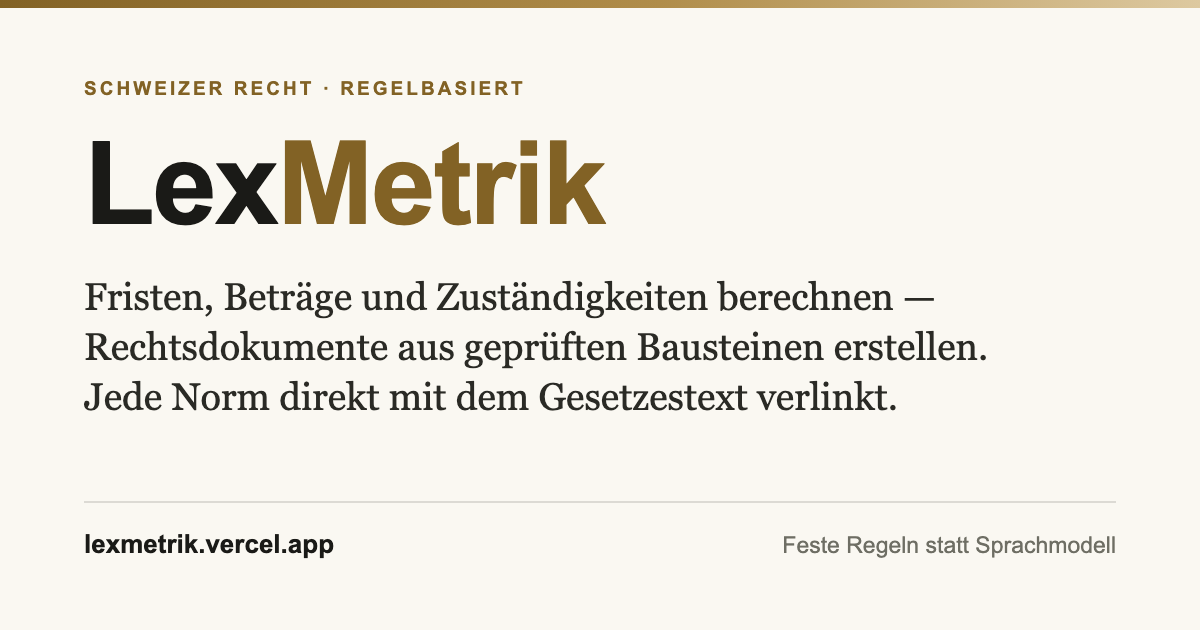
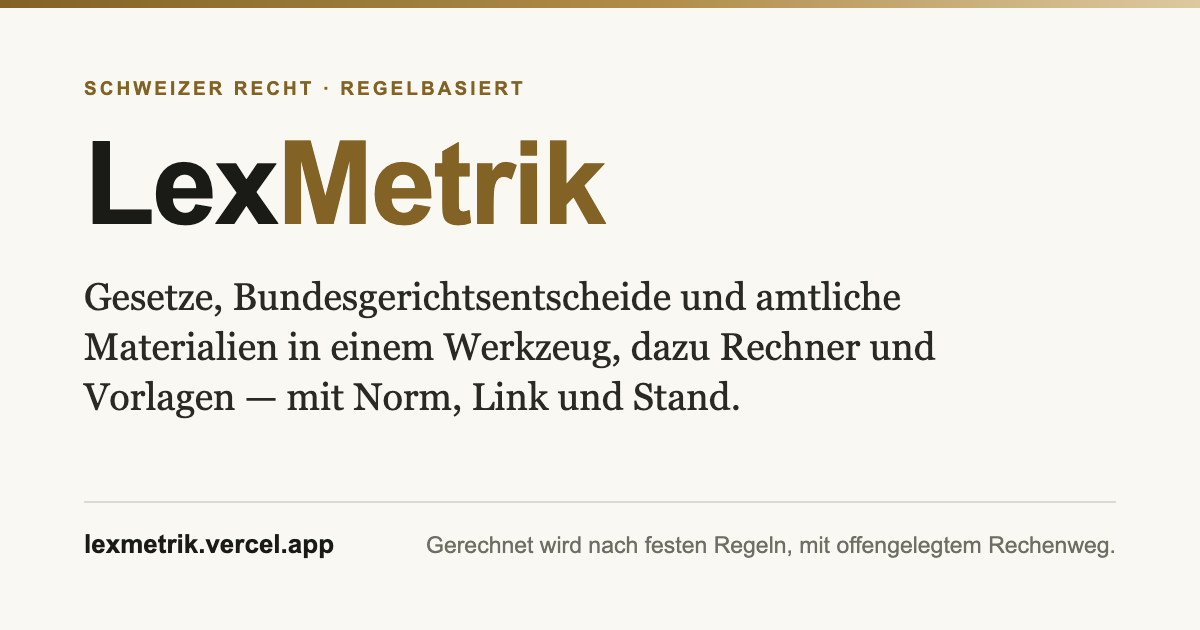
feat(startseite): S1 Messaging-SSoT — I2-Wortlaut in seo.ts, Projektionen, Tor check:seo-index
Bausequenz-Schritt 1 von FAHRPLAN-STARTSEITE-V3.md §10 (W2·5c): seo.ts wird die eine
Wortlaut-Quelle (HERO_TITEL/HERO_SUBLINE/VERTRAUENS_SATZ/STATUS_SATZ/SITE_KURZFORM);
index.html/KatalogHinweis/Methodik/og-bild.ts sind Projektionen; public/og.png regeneriert.
Council-Auflagen 1/2: kein Absolutum, kein «geprüfte Bausteine», «Ohne KI» nur gescopt.
seo.test.ts:81 bewusst auf den neuen Kern «nach festen Regeln» umgestellt (§6.3, fachlich).
Tore: tsc/lint/test 3080/build 57 Routen/golden 201 byte-gleich/check:seo-index/check:plan grün.

Roadmap: W2·5c
Gegenpruefung: n/a — reine Darstellungs-/Messaging-Schicht, kein Risiko-Pfad

Changed region(s): [[0.0617, 0.4524, 0.8325, 0.6635], [0.3392, 0.8444, 0.925, 0.9048]]

diff --git a/scripts/check-seo-index.ts b/scripts/check-seo-index.ts
@@ -1,0 +1,60 @@
+// ─── Tor check:seo-index — Parität index.html ↔ seo.ts (FAHRPLAN §6) ─────────
+//
+// Beweist, dass die statischen Meta-Tags in index.html WÖRTLICH die aus
+// src/lib/seo.ts abgeleiteten Startseiten-Werte spiegeln. seo.ts ist die SSoT
+// (§6); index.html bleibt eine statische Datei, deren Titel/Description/OG das
+// Prerender für «/» ohnehin aus metaFuerPfad('/') überschreibt — dieses Tor
+// hält die Ausgangsdatei mit der Quelle synchron, damit First Paint und
+// Social-Preview VOR dem Client-Takeover schon korrekt sind.
+//
+// KEIN Duplikat-String im Checker: die Erwartungswerte kommen aus den echten
+// seo.ts-Exporten; verglichen wird gegen die esc()-Form (wie das Prerender
+// injiziert, scripts/prerender.ts).
+import { readFileSync } from 'node:fs';
+import { dirname, join, resolve } from 'node:path';
+import { fileURLToPath } from 'node:url';
+import { SITE_TITEL, SITE_DESCRIPTION, SITE_OG_DESCRIPTION } from '../src/lib/seo';
+import { esc } from '../src/lib/seo-detail';
+
+const ROOT = resolve(dirname(fileURLToPath(import.meta.url)), '..');
+const html = readFileSync(join(ROOT, 'index.html'), 'utf8');
+
+interface Pruefung {
+  feld: string;
+  re: RegExp; // Gruppe 1 = der Tag-Inhalt
+  erwartet: string;
+}
+
+// Muster spiegeln die Prerender-Injektion (scripts/prerender.ts rendereTemplate).
+const PRUEFUNGEN: Pruefung[] = [
+  { feld: '<title>', re: /<title>([^<]*)<\/title>/, erwartet: SITE_TITEL },
+  { feld: 'meta description', re: /<meta name="description" content="([^"]*)" \/>/, erwartet: SITE_DESCRIPTION },
+  { feld: 'og:title', re: /<meta property="og:title" content="([^"]*)" \/>/, erwartet: SITE_TITEL },
+  { feld: 'og:description', re: /<meta property="og:description" content="([^"]*)" \/>/, erwartet: SITE_OG_DESCRIPTION },
+  { feld: 'og:image:alt', re: /<meta property="og:image:alt" content="([^"]*)" \/>/, erwartet: SITE_TITEL },
+  { feld: 'twitter:title', re: /<meta name="twitter:title" content="([^"]*)" \/>/, erwartet: SITE_TITEL },
+  { feld: 'twitter:description', re: /<meta name="twitter:description" content="([^"]*)" \/>/, erwartet: SITE_OG_DESCRIPTION },
+];
+
+const fehler: string[] = [];
+for (const { feld, re, erwartet } of PRUEFUNGEN) {
+  const m = html.match(re);
+  if (!m) {
+    fehler.push(`${feld}: Tag-Muster in index.html nicht gefunden (${re}).`);
+    continue;
+  }
+  const ist = m[1];
+  const soll = esc(erwartet);
+  if (ist !== soll) {
+    fehler.push(`${feld}:\n    index.html: ${JSON.stringify(ist)}\n    seo.ts:     ${JSON.stringify(soll)}`);
+  }
+}
+
+if (fehler.length > 0) {
+  console.error('check:seo-index — index.html weicht von seo.ts ab (SSoT §6):\n');
+  for (const f of fehler) console.error(`  ✗ ${f}`);
+  console.error('\n  → index.html an die seo.ts-Exporte angleichen (nicht umgekehrt).');
+  process.exit(1);
+}
+
+console.log(`check:seo-index — OK, ${PRUEFUNGEN.length} Meta-Felder spiegeln seo.ts.`);

diff --git a/src/lib/seo.ts b/src/lib/seo.ts
@@ -16,15 +16,38 @@ import { ALLE_KARTEN, istVerfuegbar, type CatalogItem } from './startseiteConfig
  *  Ziff. 6) — Canonical, og:url und sitemap.xml leiten alle hieraus ab. */
 export const SITE_URL = 'https://lexmetrik.vercel.app';
 
-/** Globaler Titel/Description (wörtlich aus index.html, dort gepflegt seit
- *  der Einführung; index.html bleibt die Quelle für die Startseite). */
-export const SITE_TITEL = 'LexMetrik — Schweizer Recht: berechnen und erstellen';
+// ─── I2-Messaging: die EINE Wortlaut-Quelle (FAHRPLAN-STARTSEITE-V3 §6) ──────
+// Ab W2·5c ist seo.ts die SSoT für das Startseiten-/Marken-Messaging; index.html,
+// KatalogHinweis, Methodik und scripts/og-bild.ts sind Projektionen (Build
+// injiziert bzw. importiert). Das Tor check:seo-index erzwingt die Parität
+// seo.ts ↔ index.html. Wortlaut VERBINDLICH aus §6; Council-Auflagen 1/2: kein
+// Absolutum, der Status-Terminus «geprüft» ist für Inhalte reserviert (nie
+// «geprüfte Bausteine»), «Ohne KI» nie als Siegel — nur der gescopte Satz.
+
+/** H1 der Startseite (Value Proposition, §6). */
+export const HERO_TITEL = 'Schweizer Recht nachschlagen, Fristen und Kosten berechnen';
+/** Subline unter der H1 (§6). */
+export const HERO_SUBLINE =
+  'Gesetze, Bundesgerichtsentscheide und amtliche Materialien in einem Werkzeug, dazu Rechner und Vorlagen — mit Norm, Link und Stand.';
+/** Vertrauens-Fuss, erster Satz — gescopter Anti-KI-Satz (§6, Auflage 1). */
+export const VERTRAUENS_SATZ =
+  'Kein Sprachmodell schätzt Ergebnisse: gerechnet wird nach festen Regeln, der Rechenweg ist offengelegt, Normen sind mit der amtlichen Sammlung verlinkt.';
+/** Vertrauens-Fuss, zweiter Satz — ehrlicher Status ohne «geprüft»-Absolutum (§6). */
+export const STATUS_SATZ =
+  'Der Prüfstand jedes Eintrags ist ausgewiesen; noch nicht fachlich Abgenommenes ist als Entwurf gekennzeichnet.';
+/** Kompakte, gescopte Methodik-Zeile (KatalogHinweis, og-Claim) — enthält den
+ *  stabilen Kern «nach festen Regeln». */
+export const SITE_KURZFORM = 'Gerechnet wird nach festen Regeln, mit offengelegtem Rechenweg.';
+
+/** Globaler Titel/Description — aus dem I2-Material (§6) abgeleitet; index.html
+ *  spiegelt genau diese Werte (Tor check:seo-index). */
+export const SITE_TITEL = `LexMetrik — ${HERO_TITEL}`;
 export const SITE_DESCRIPTION =
-  'LexMetrik rechnet Fristen, Beträge und Quoten nach Schweizer Recht und stellt Rechtsdokumente aus geprüften Textbausteinen zusammen — regelbasiert, nachvollziehbar, jede Norm direkt mit dem Gesetzestext verlinkt. Keine Rechtsberatung.';
-/** Kuratierter Social-Share-Text der Startseite (wörtlich aus index.html
- *  og:description — dort bewusst kürzer als die meta description). */
+  'Schweizer Recht nachschlagen und berechnen: Gesetze, Bundesgerichtsentscheide und Materialien, dazu Rechner und Vorlagen — mit Norm, Link und Stand.';
+/** Kuratierter Social-Share-Text der Startseite (og:description) — bewusst mit
+ *  dem gescopten Rechen-Satz statt Marketing-Claim. */
 export const SITE_OG_DESCRIPTION =
-  'Fristen, Beträge und Zuständigkeiten transparent berechnet; Rechtsdokumente aus geprüften Bausteinen zusammengestellt. Feste Regeln statt Sprachmodell.';
+  'Gesetze, Bundesgerichtsentscheide und Materialien in einem Werkzeug, dazu Rechner und Vorlagen. Gerechnet wird nach festen Regeln, mit Norm, Link und Stand.';
 
 export interface RouteMetadaten {
   pfad: string;          // z. B. '/rechner/verzugszins'
@@ -54,12 +77,12 @@ const DOPPELKARTEN_OVERRIDE: Record<string, string> = {
 const STATISCHE_SEITEN: Record<string, { titel: string; beschreibung: string; ogBeschreibung?: string }> = {
   '/': { titel: SITE_TITEL, beschreibung: SITE_DESCRIPTION, ogBeschreibung: SITE_OG_DESCRIPTION },
   '/rechner': { titel: 'Rechner & Werkzeuge — LexMetrik', beschreibung: 'Alle Rechner von LexMetrik nach Aufgabe gegliedert — Zuständigkeiten, Fristen und Gebühren. Feste Rechenregeln, jede Norm direkt verlinkt, Ergebnisse sofort im Browser.' },
-  '/vorlagen': { titel: 'Vorlagen & Dokumente — LexMetrik', beschreibung: 'Rechtsdokumente von LexMetrik aus geprüften Textbausteinen — Verträge, Eingaben, Erklärungen und Dokumentmappen, regelbasiert aufgesetzt mit ehrlichen Form-Grenzen.' },
+  '/vorlagen': { titel: 'Vorlagen & Dokumente — LexMetrik', beschreibung: 'Rechtsdokumente von LexMetrik aus festen Textbausteinen mit Normbezug — Verträge, Eingaben, Erklärungen und Dokumentmappen, regelbasiert aufgesetzt mit ehrlichen Form-Grenzen.' },
   '/gesetze': { titel: 'Schweizer Gesetzessammlung — LexMetrik', beschreibung: 'Volltext der in LexMetrik verwendeten Bundesgesetze und kantonalen Erlasse — geltende Fassung, mit Stand und amtlichem Live-Link. Schnelle Navigation zwischen und innerhalb der Gesetze.' },
   '/rechtsprechung': { titel: 'Rechtsprechung — LexMetrik', beschreibung: 'Ausgewählte Bundesgerichtsentscheide im Volltext, nach Sachgebiet erschlossen und mit den Gesetzen verzahnt. Daten: OpenCaseLaw — massgeblich bleibt die amtliche Fassung. Keine Rechtsberatung.' },
   '/international': { titel: 'International / Staatsverträge — LexMetrik', beschreibung: 'Für die Schweiz massgebliche Staatsverträge und internationales Recht — EMRK, CISG, Lugano-Übereinkommen, Haager Übereinkommen, Freizügigkeitsabkommen und DSGVO. Jeder Eintrag mit Live-Link zur amtlichen Fassung (Fedlex bzw. EUR-Lex), keine Snapshots.' },
   '/materialien': { titel: 'Amtliche Ressourcen / Materialien — LexMetrik', beschreibung: 'Praxisleitende Publikationen der Bundesbehörden — ESTV-Kreisschreiben, EDÖB-Leitfäden, SECO- und BSV-Wegleitungen, EHRA-Praxismitteilungen, FINMA-Rundschreiben, IGE-Richtlinien. Faktisches Soft-Law ohne Gesetzesrang, je mit Live-Link zur amtlichen Fassung und mit den Gesetzen verzahnt.' },
-  '/methodik': { titel: 'Wie LexMetrik rechnet — LexMetrik', beschreibung: 'Wie LexMetrik Fristen, Beträge und Quoten herleitet: feste Regeln statt Sprachmodell, jeder Schritt nachvollziehbar, jede Norm mit der amtlichen Sammlung verlinkt.' },
+  '/methodik': { titel: 'Wie LexMetrik rechnet — LexMetrik', beschreibung: 'Wie LexMetrik Fristen, Beträge und Quoten herleitet: gerechnet wird nach festen Regeln, jeder Schritt nachvollziehbar, jede Norm mit der amtlichen Sammlung verlinkt.' },
   '/ueber': { titel: 'Über — LexMetrik', beschreibung: 'Warum es LexMetrik gibt — entstanden bei der Vorbereitung auf die Anwaltsprüfung: überprüfbare, normtreue Rechtsberechnung statt Black Box.' },
   '/kontakt': { titel: 'Kontakt aufnehmen — LexMetrik', beschreibung: 'Fragen, Korrekturen zu einer Berechnung oder einem Baustein, Vorschläge für neue Rechner und Vorlagen — Hinweise auf Fehler sind besonders willkommen.' },
   '/datenschutz': { titel: 'Datenschutzerklärung — LexMetrik', beschreibung: 'Datenschutzerklärung von LexMetrik (Entwurf). Die Eingaben verlassen den Browser nicht — Berechnung und Dokumenterstellung laufen lokal im Gerät.' },

diff --git a/index.html b/index.html
@@ -4,14 +4,17 @@
     <meta charset="UTF-8" />
     <link rel="icon" type="image/svg+xml" href="/favicon.svg" />
     <meta name="viewport" content="width=device-width, initial-scale=1.0" />
-    <title>LexMetrik — Schweizer Recht: berechnen und erstellen</title>
-    <meta name="description" content="LexMetrik rechnet Fristen, Beträge und Quoten nach Schweizer Recht und stellt Rechtsdokumente aus geprüften Textbausteinen zusammen — regelbasiert, nachvollziehbar, jede Norm direkt mit dem Gesetzestext verlinkt. Keine Rechtsberatung." />
+    <!-- title/description/og/twitter sind Projektionen von src/lib/seo.ts
+         (SITE_TITEL/SITE_DESCRIPTION/SITE_OG_DESCRIPTION). Parität erzwingt das
+         Tor check:seo-index — hier nie von Hand abweichen, sondern seo.ts pflegen. -->
+    <title>LexMetrik — Schweizer Recht nachschlagen, Fristen und Kosten berechnen</title>
+    <meta name="description" content="Schweizer Recht nachschlagen und berechnen: Gesetze, Bundesgerichtsentscheide und Materialien, dazu Rechner und Vorlagen — mit Norm, Link und Stand." />
     <meta name="theme-color" content="#F7F4EC" media="(prefers-color-scheme: light)" />
     <meta name="theme-color" content="#16150F" media="(prefers-color-scheme: dark)" />
     <meta property="og:type" content="website" />
     <meta property="og:site_name" content="LexMetrik" />
-    <meta property="og:title" content="LexMetrik — Schweizer Recht: berechnen und erstellen" />
-    <meta property="og:description" content="Fristen, Beträge und Zuständigkeiten transparent berechnet; Rechtsdokumente aus geprüften Bausteinen zusammengestellt. Feste Regeln statt Sprachmodell." />
+    <meta property="og:title" content="LexMetrik — Schweizer Recht nachschlagen, Fristen und Kosten berechnen" />
+    <meta property="og:description" content="Gesetze, Bundesgerichtsentscheide und Materialien in einem Werkzeug, dazu Rechner und Vorlagen. Gerechnet wird nach festen Regeln, mit Norm, Link und Stand." />
     <meta property="og:url" content="https://lexmetrik.vercel.app/" />
     <meta property="og:locale" content="de_CH" />
     <!-- Statische Social-Card (W1.10): absolute URL wie og:url; bei Domainwechsel
@@ -20,11 +23,11 @@
     <meta property="og:image:width" content="1200" />
     <meta property="og:image:height" content="630" />
     <meta property="og:image:type" content="image/png" />
-    <meta property="og:image:alt" content="LexMetrik — Schweizer Recht: berechnen und erstellen" />
+    <meta property="og:image:alt" content="LexMetrik — Schweizer Recht nachschlagen, Fristen und Kosten berechnen" />
     <meta name="twitter:card" content="summary_large_image" />
     <meta name="twitter:image" content="https://lexmetrik.vercel.app/og.png" />
-    <meta name="twitter:title" content="LexMetrik — Schweizer Recht: berechnen und erstellen" />
-    <meta name="twitter:description" content="Fristen, Beträge und Zuständigkeiten transparent berechnet; Rechtsdokumente aus geprüften Bausteinen zusammengestellt. Feste Regeln statt Sprachmodell." />
+    <meta name="twitter:title" content="LexMetrik — Schweizer Recht nachschlagen, Fristen und Kosten berechnen" />
+    <meta name="twitter:description" content="Gesetze, Bundesgerichtsentscheide und Materialien in einem Werkzeug, dazu Rechner und Vorlagen. Gerechnet wird nach festen Regeln, mit Norm, Link und Stand." />
   </head>
   <body>
     <div id="root"></div>

diff --git a/scripts/og-bild.ts b/scripts/og-bild.ts
@@ -13,13 +13,14 @@
 import { chromium } from '@playwright/test';
 import { dirname, join, resolve } from 'node:path';
 import { fileURLToPath } from 'node:url';
+import { HERO_SUBLINE, SITE_KURZFORM } from '../src/lib/seo';
 
 const ROOT = resolve(dirname(fileURLToPath(import.meta.url)), '..');
 const ZIEL = join(ROOT, 'public', 'og.png');
 
-// Quelle der Texte: index.html (og:title kurz / og:description). Hier als
-// Card-Komposition; bei Textänderung dort UND hier nachführen (§5-Hinweis:
-// der maßgebliche Social-Text bleibt index.html, dies ist die Bild-Spiegelung).
+// Quelle der Texte: src/lib/seo.ts (SSoT, §6) — Tagline = HERO_SUBLINE,
+// Claim = SITE_KURZFORM. Bei Textänderung nur seo.ts pflegen und dieses Skript
+// neu laufen lassen (npm run og:bild); die Card ist reine Bild-Spiegelung.
 const HTML = `<!doctype html><html lang="de-CH"><head><meta charset="utf-8" /><style>
   * { margin: 0; padding: 0; box-sizing: border-box; }
   html, body { width: 1200px; height: 630px; }
@@ -39,9 +40,9 @@ const HTML = `<!doctype html><html lang="de-CH"><head><meta charset="utf-8" /><s
   <div class="frame">
     <div class="overline">Schweizer Recht · regelbasiert</div>
     <div class="wordmark">Lex<span class="metrik">Metrik</span></div>
-    <div class="tagline">Fristen, Beträge und Zuständigkeiten berechnen — Rechtsdokumente aus geprüften Bausteinen erstellen. Jede Norm direkt mit dem Gesetzestext verlinkt.</div>
+    <div class="tagline">${HERO_SUBLINE}</div>
     <div class="rule"></div>
-    <div class="foot"><div class="url">lexmetrik.vercel.app</div><div class="claim">Feste Regeln statt Sprachmodell</div></div>
+    <div class="foot"><div class="url">lexmetrik.vercel.app</div><div class="claim">${SITE_KURZFORM}</div></div>
   </div>
 </body></html>`;
 

diff --git a/src/tests/seo.test.ts b/src/tests/seo.test.ts
@@ -78,7 +78,9 @@ describe('metaFuerPfad()', () => {
   });
 
   it('Startseite behält den kuratierten og-Text (Bug-Check 11.6.2026); Karten-Routen haben keinen eigenen', () => {
-    expect(metaFuerPfad('/')!.ogBeschreibung).toContain('Feste Regeln statt Sprachmodell');
+    // I2-Messaging (W2·5c): og-Text bewusst auf den gescopten Rechen-Satz
+    // umgestellt; stabiler Kern «nach festen Regeln» (FAHRPLAN §6, Auflage 6).
+    expect(metaFuerPfad('/')!.ogBeschreibung).toContain('nach festen Regeln');
     expect(metaFuerPfad('/rechner/verzugszins')!.ogBeschreibung).toBeUndefined();
   });
 });

diff --git a/src/components/KatalogHinweis.tsx b/src/components/KatalogHinweis.tsx
@@ -1,4 +1,5 @@
 import { Link } from 'react-router-dom';
+import { SITE_KURZFORM } from '../lib/seo';
 
 // Gemeinsamer Fuss der Rechner-/Vorlagen-Übersicht (vormals inline in
 // Recherche.tsx): Methodik-Zeile + Pflichthinweis (§8). Reine Darstellung;
@@ -9,7 +10,7 @@ export function KatalogHinweis() {
       <section className="lc-notice flex flex-wrap items-baseline justify-between gap-x-6 gap-y-2">
         <p className="text-body-s text-ink-600">
           <span className="font-medium text-ink-900">So rechnet LexMetrik:</span>{' '}
-          Berechnung statt KI · verifizierte Normverweise · offengelegter Rechenweg.
+          {SITE_KURZFORM}
         </p>
         <Link to="/methodik" className="text-body-s font-medium text-brass-700 hover:text-brass-600 no-underline whitespace-nowrap">
           Zur Methodik →

diff --git a/src/pages/Methodik.tsx b/src/pages/Methodik.tsx
@@ -5,7 +5,7 @@ import { VerfallUebersicht } from '../components/VerfallUebersicht';
 
 const ABSCHNITTE: { titel: string; text: string }[] = [
   {
-    titel: 'Berechnung statt KI',
+    titel: 'Feste Regeln statt Sprachmodell',
     text:
       'LexMetrik ist kein Chatbot und kein Sprachmodell. Hinter jedem Rechner stehen fest ' +
       'programmierte Regeln, die direkt aus Gesetz und Rechtsprechung abgeleitet sind. Daraus folgt ' +